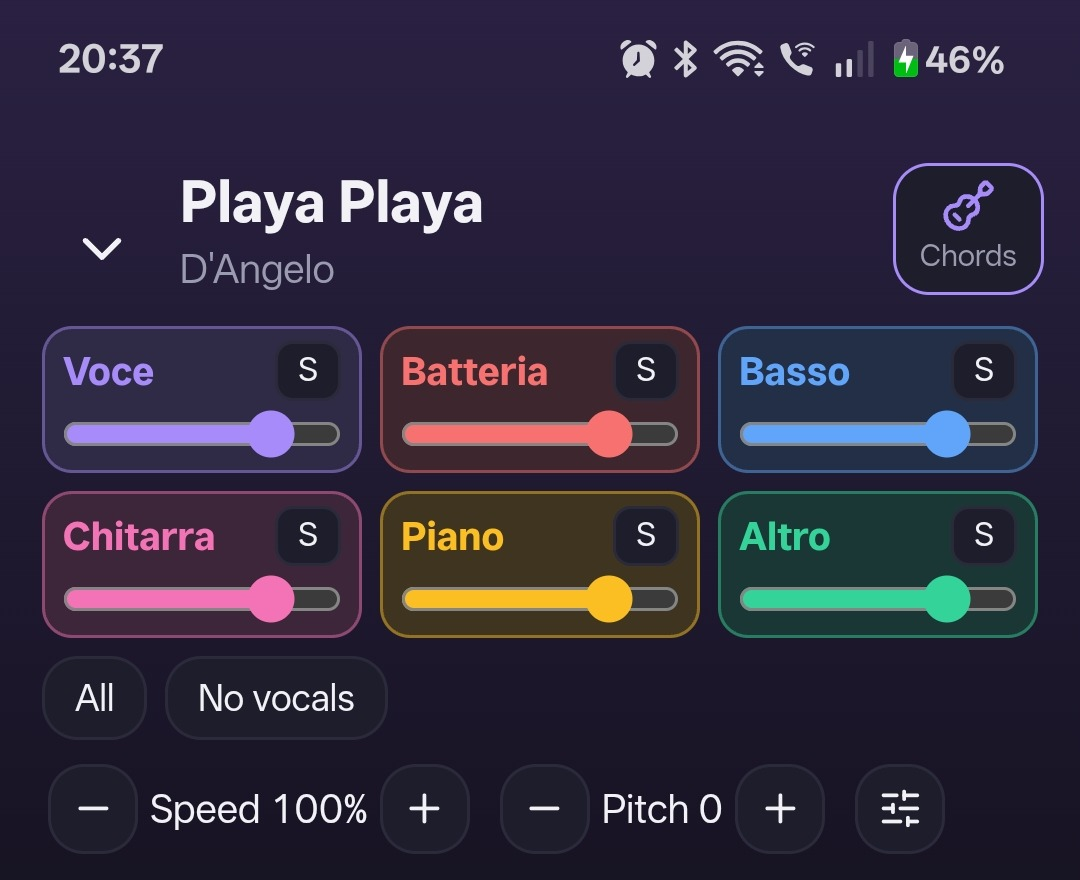
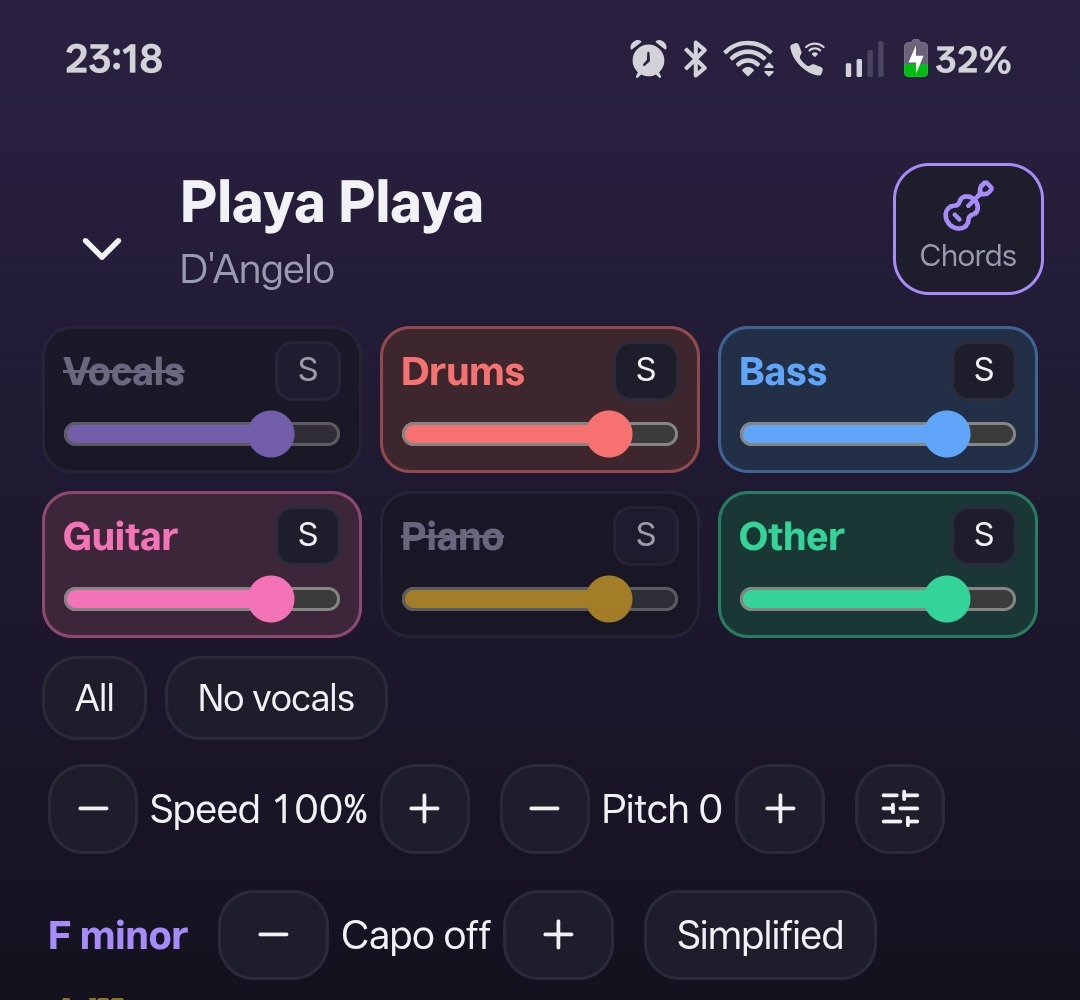
docs: replace Play Along screenshot with English capture

diff --git a/README.md b/README.md
@@ -19,10 +19,10 @@ Search for music, play it through YouTube, and organize your library with playli
 
 OpenSpoty is designed for musicians as well as listeners. In Play Along, adjust the volume of vocals, drums, bass, guitar, piano, and other stems independently; mute or solo parts to focus on what you are practicing. Load chords and synchronized lyrics, edit chord positions, and change pitch or playback speed. BPM detection, count-in, and A–B looping help with focused practice.
 
-<p align="center"><a href="screenshots/playalong-controls-en.jpg"><img src="screenshots/playalong-controls-en.jpg" width="260" alt="Play Along controls for stems, mute and solo, chords, and key"></a> <a href="screenshots/player-en.jpg"><img src="screenshots/player-en.jpg" width="120" alt="Player controls and queue"></a>ù</p>
-<p align="center"><sub>Play Along controls (cropped before lyrics)</sub> <sub>Player</sub> <sub>Duplicate player capture</sub></p>
+<p align="center"><a href="screenshots/playalong-controls-en.jpg"><img src="screenshots/playalong-controls-en.jpg" width="260" alt="English Play Along controls for stems, mute and solo, chords, and key"></a> <a href="screenshots/player-en.jpg"><img src="screenshots/player-en.jpg" width="120" alt="Player controls and queue"></a> <a href="screenshots/player-en-duplicate.jpg"><img src="screenshots/player-en-duplicate.jpg" width="120" alt="Duplicate player screenshot supplied by the project owner"></a></p>
+<p align="center"><sub>English Play Along controls with muted stems</sub> <sub>Player</sub> <sub>Duplicate player capture</sub></p>
 
-*The Play Along screen was captured before the final localization pass; the current app translates these controls when English is selected. The crop omits song lyrics.*
+*The Play Along screenshot is cropped to show the English controls and omit song lyrics.*
 
 ## More music tools
 

diff --git a/README.it.md b/README.it.md
@@ -20,9 +20,9 @@ Cerca musica, riproducila tramite YouTube e organizza la libreria con playlist e
 OpenSpoty è pensata per musicisti e ascoltatori. In Play Along puoi regolare separatamente voce, batteria, basso, chitarra, piano e altri strumenti; silenziare o isolare le singole parti per concentrarti su ciò che stai studiando. Carica accordi e testo sincronizzato, modifica la posizione degli accordi e cambia tono o velocità. Rilevamento BPM, count-in e loop A–B aiutano a esercitarsi con precisione.
 
 <p align="center"><a href="screenshots/playalong-controls-en.jpg"><img src="screenshots/playalong-controls-en.jpg" width="120" alt="Controlli Play Along per tracce, mute e solo, accordi e tonalità"></a> <a href="screenshots/player-en.jpg"><img src="screenshots/player-en.jpg" width="120" alt="Player e controlli della coda"></a> <a href="screenshots/player-en-duplicate.jpg"><img src="screenshots/player-en-duplicate.jpg" width="120" alt="Schermata duplicata del player"></a></p>
-<p align="center"><sub>Play Along (ritaglio senza testo)</sub> <sub>Player</sub> <sub>Copia del player</sub></p>
+<p align="center"><sub>Controlli Play Along in inglese, tracce silenziate</sub> <sub>Player</sub> <sub>Copia del player</sub></p>
 
-*La schermata Play Along è stata acquisita prima dell'ultimo aggiornamento delle traduzioni; la versione attuale traduce questi controlli quando è selezionato l'inglese. Il ritaglio esclude il testo della canzone.*
+*La schermata Play Along mostra i controlli in inglese ed è ritagliata per escludere il testo della canzone.*
 
 ## Altri strumenti musicali
 
